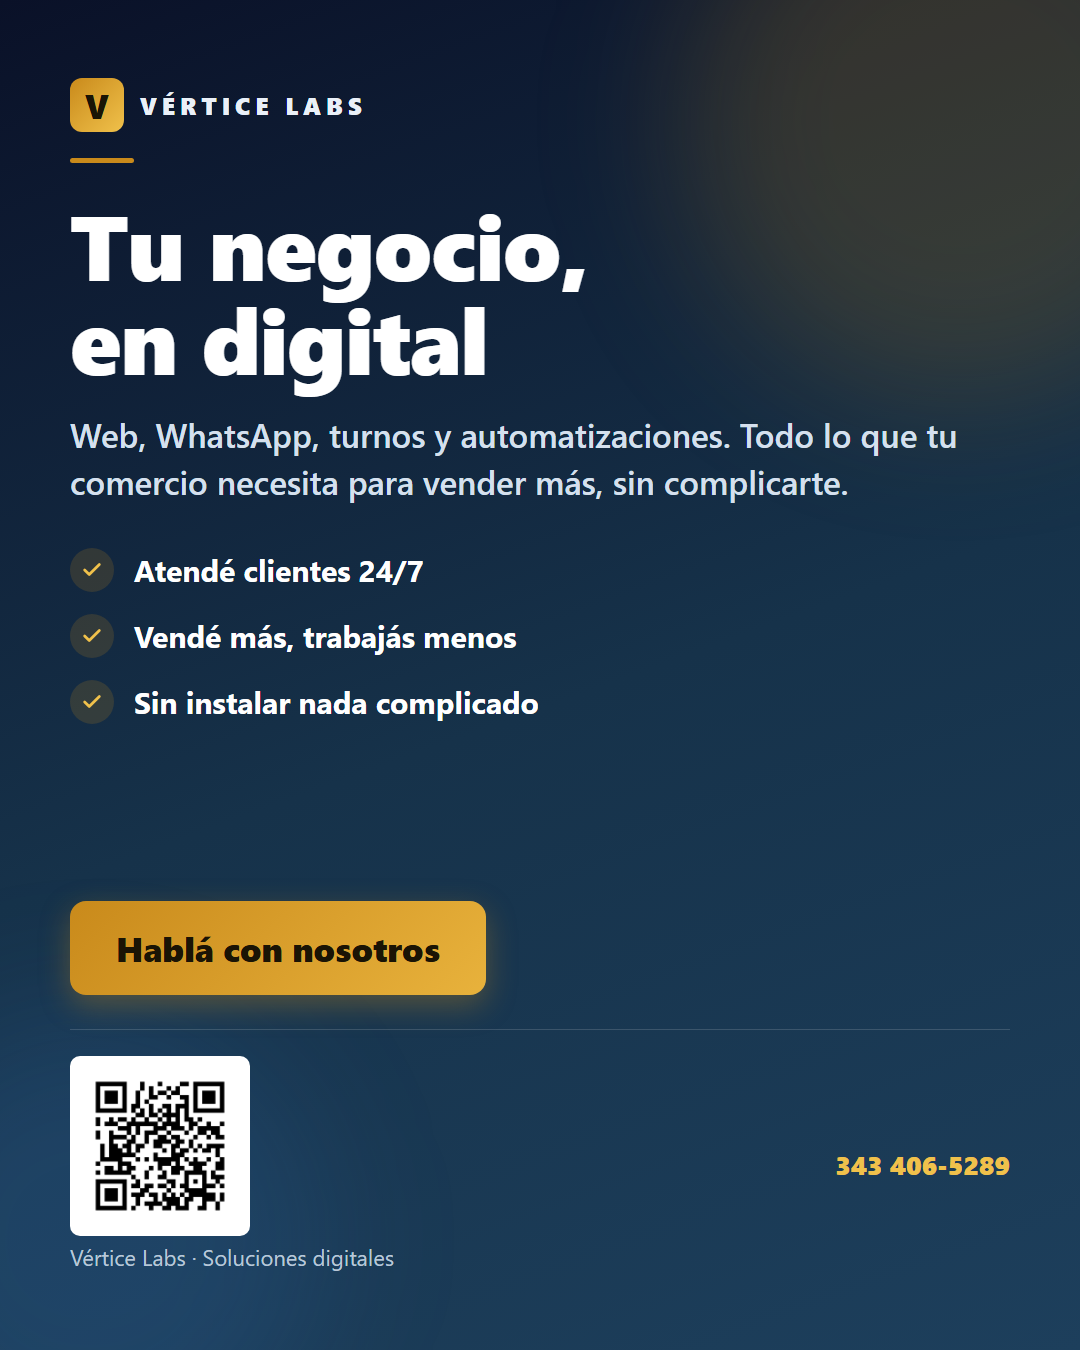
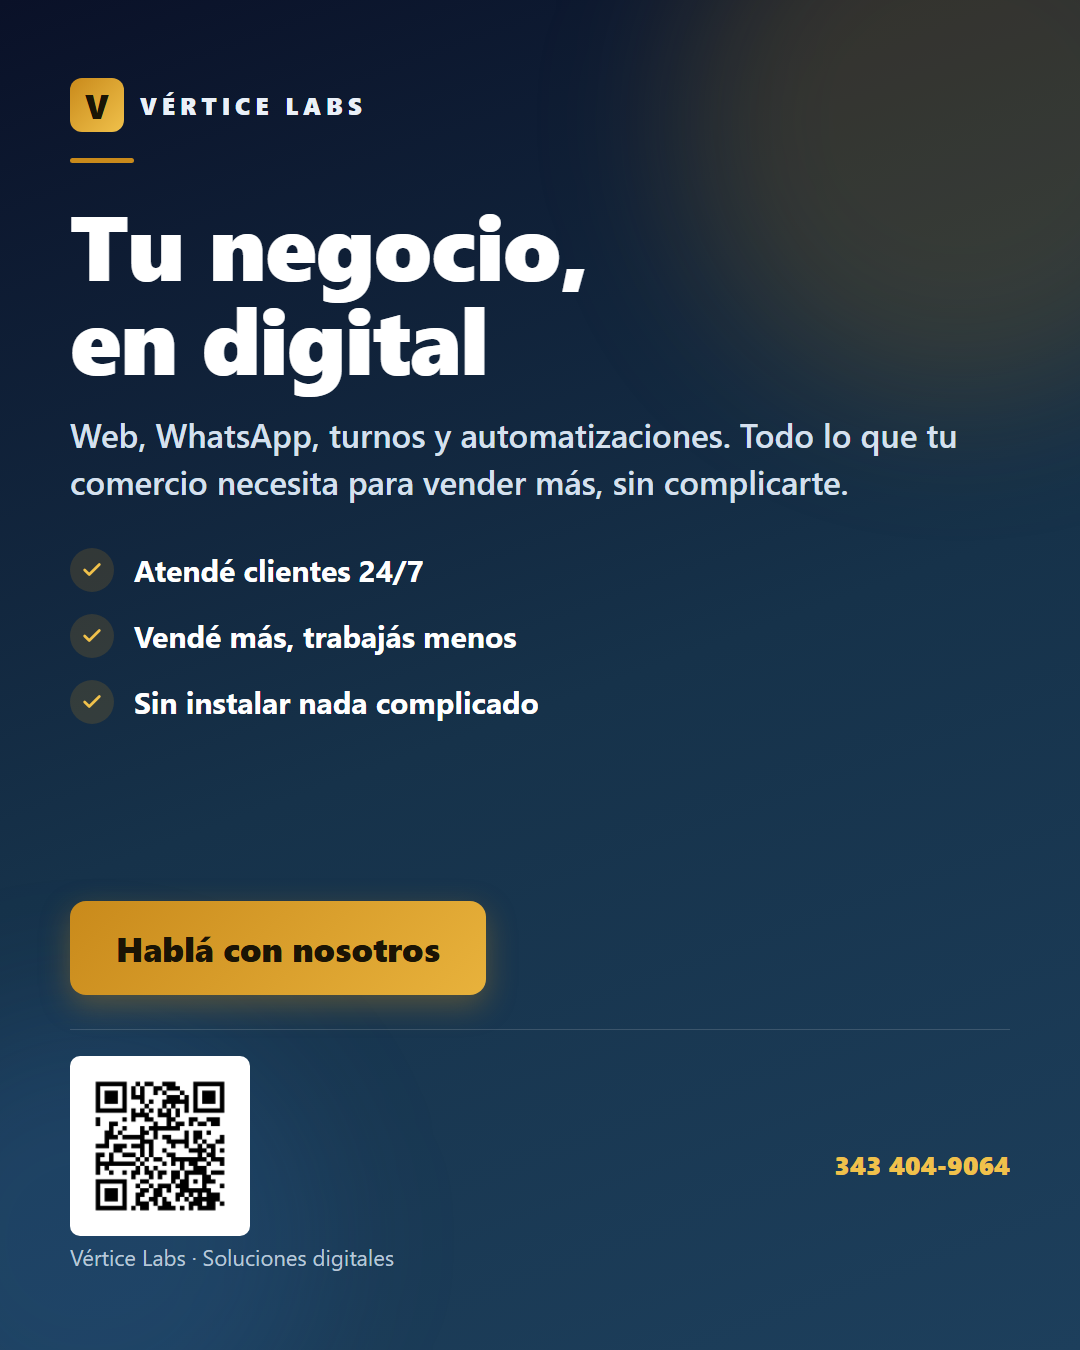
flyers: QR a verticelabs.com.ar y teléfono 343 404-9064

Changed region(s): [[0.0917, 0.7778, 0.2139, 0.9022], [0.7944, 0.84, 0.9472, 0.8711]]

diff --git a/MEMORY.md b/MEMORY.md
@@ -25,7 +25,7 @@ Leads + envío de mails. Login con contraseña compartida.
 - `js/ui.js` → render de vistas (solo DOM) + `MATERIAL` (lista de flyers) + `pintarMaterial()`.
 - `js/app.js` → estado, sesión, eventos.
 - `index.html` → vistas (login / quien-sos / dashboard) + modales + sección "Material de venta".
-- `marketing/*.png` → flyers de venta (1080×1350). Se generan con `marketing/generar_flyers.py` (local, no commiteado; HTML plantilla + QR a wa.me/5493434065289).
+- `marketing/*.png` → flyers de venta (1080×1350). Se generan con `marketing/generar_flyers.py` (local, no commiteado; HTML plantilla + QR a www.verticelabs.com.ar, tel 343 404-9064).
 
 ## Pendiente / bloqueos
 - **Brevo lista blanca de IPs:** el envío de mails desde Supabase falla con 401
